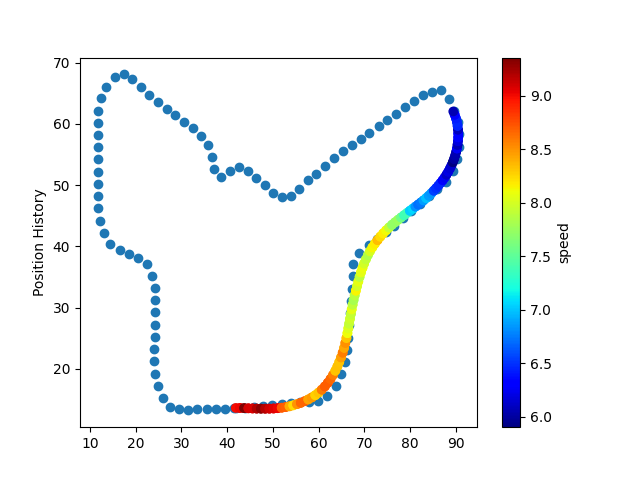
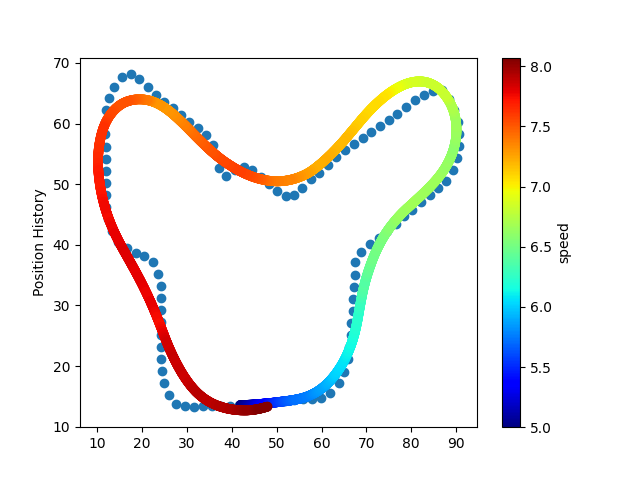
weighted average trajectory

diff --git a/car_controller.py b/car_controller.py
@@ -29,25 +29,25 @@ import math
 from scipy.integrate import odeint
 
 #Covariance Matrix for the input distribution
-INITIAL_COVARIANCE = [[0.0, 0], [0, 0.0]] 
+INITIAL_COVARIANCE = [[0.01, 0], [0, 0.1]] 
 
 #Covariance matrix for every next-step in the trajectory prediction
-STEP_COVARIANCE = [[0.05,0],[0,2]]
+STEP_COVARIANCE = [[0.1,0],[0,0]]
 NUMBER_OF_STEPS_PER_TRAJECTORY = 30
 
 # Must be between 0 and 1 and defines how close to a random walk the trajectories are
 # 0: The trajectories are calculated by a completely random control with mean = 0 and variance = step_covariance0 
 # 1: The trajectories are a random walk with mean = last control and variance = step_covariance
-RANDOM_WALK = 0
+RANDOM_WALK = 0.0
 
 #Number of trajectories that are calculated for every step
-NUMBER_OF_TRAJECTORIES = 1000
+NUMBER_OF_TRAJECTORIES = 100
 
-#With of the race track (ToDo)
+#With of the race track (ToDo) 
 DIST_TOLLERANCE = 4 
-
+INVERSE_TEMP = 10
 DRAW_CHOSEN_SEQUENCE = True
-DRAW_TRAJECTORIES = False
+DRAW_TRAJECTORIES = True
 
 def column(matrix, i):
         return [row[i] for row in matrix]
@@ -126,6 +126,7 @@ class CarController:
         simulated_trajectory = []
         for control_input in control_inputs:
             simulated_state = self.simulate_step(simulated_state, control_input)
+
             simulated_trajectory.append(simulated_state)
         return simulated_trajectory
 
@@ -138,15 +139,15 @@ class CarController:
     '''
     def simulate_trajectory_distribution(self, control_inputs_distrubution):
         self.simulated_history = []
-        # start = time.time()
+        start = time.time()
         result = []
-        with Pool(5) as p:
+        with Pool(8) as p:
             result = p.map(self.simulate_trajectory, 
             control_inputs_distrubution) 
         self.simulated_history = result
-        # end = time.time()
-        # print("TIME FOR 50 Trajectories")
-        # print(end - start)
+        end = time.time()
+        print("TIME FOR 50 Trajectories")
+        print(end - start)
 
         return result
 
@@ -174,7 +175,7 @@ class CarController:
                 next_control_input[0] = step_steering
                 next_control_input[1] = step_acceleration
 
-        return control_input_sequences
+        return np.array(control_input_sequences)
 
 
     '''
@@ -198,8 +199,8 @@ class CarController:
         progress_cost = 0
 
         distance_cost_weight = 1
-        speed_cost_weight = 400
-        progress_cost_weight =500
+        speed_cost_weight = 700
+        progress_cost_weight =700
 
         number_of_critical_states = 10
 
@@ -243,9 +244,9 @@ class CarController:
         self.last_control_input[0] = min(self.last_control_input[0], 1)
         self.last_control_input[1] = min(self.last_control_input[1], 0.5)
 
-        input_samples = self.sample_control_inputs(self.last_control_input)
+        control_sequences = self.sample_control_inputs(self.last_control_input)
         # input_samples = u_dist #those are the handcrafted inputs
-        simulated_history = self.simulate_trajectory_distribution( input_samples )
+        simulated_history = self.simulate_trajectory_distribution( control_sequences )
 
         trajectory_index = 0    
         lowest_cost = 100000
@@ -260,31 +261,20 @@ class CarController:
             if cost < lowest_cost:
                 best_index = trajectory_index
                 lowest_cost = cost
-            inverse_temp = 10
-            weight =  math.exp((-1/inverse_temp) * cost)
+            
+            weight =  math.exp((-1/INVERSE_TEMP) * cost)
             # print("Weight", weight)
             weights[trajectory_index] = weight
             trajectory_index += 1
 
-        best_input = input_samples[best_index]
-        # print("Best input", best_input)
-        return best_input
-        inputs = np.array(column(input_samples,0))
-
+        best_conrol_sequence = control_sequences[best_index]
 
         #Finding weighted avg input
-        u_sum = np.zeros(2)
-        total_weight = 0
-        for i in range (len(weights)):
-            total_weight += weights[i]
-            u_sum = np.add(u_sum, weights[i] * inputs[i])
-      
-
-        weighted_avg_input = u_sum/total_weight
-        next_control_input = weighted_avg_input
+        next_control_sequence = np.average(control_sequences,axis=0, weights=weights )
 
 
-        return next_control_input
+        return next_control_sequence
+        # return best_conrol_sequence
 
     """
     draws the simulated history (position and speed) of the car into a plot for a trajectory distribution resp. the history of all trajectory distributions

diff --git a/plot.py b/plot.py
@@ -1,0 +1,43 @@
+from matplotlib import cm
+import matplotlib.pyplot as plt
+import numpy as np
+import shapely.geometry as geom
+import math
+from numpy import genfromtxt
+
+
+control_history = genfromtxt('control_history.csv', delimiter=',')
+print(control_history.shape)
+
+fig, axs = plt.subplots(2)
+fig.suptitle('Control History')
+axs[0].title.set_text('Steering')
+axs[0].plot(control_history[:,0])
+axs[1].title.set_text('Thrust')
+axs[1].plot(control_history[:,1])
+
+plt.savefig("control_histry.png")
+plt.clf()
+
+state_history = genfromtxt('car_state_history.csv', delimiter=',')
+print(state_history.shape)
+
+fig, axs = plt.subplots(7)
+fig.suptitle('Control History')
+axs[0].title.set_text('x')
+axs[0].plot(state_history[:,0])
+axs[1].title.set_text('y')
+axs[1].plot(state_history[:,1])
+axs[2].title.set_text('Car angle')
+axs[2].plot(state_history[:,2])
+axs[3].title.set_text('Speed')
+axs[3].plot(state_history[:,3])
+axs[4].title.set_text('Steering angle')
+axs[4].plot(state_history[:,4])
+axs[5].title.set_text('Steering rate')
+axs[5].plot(state_history[:,5])
+axs[6].title.set_text('Slip angle')
+axs[6].plot(state_history[:,6])
+
+
+plt.savefig("car_state_histry.png")

diff --git a/car.py b/car.py
@@ -31,7 +31,7 @@ class Car:
 
         self.parameters = parameters_vehicle2()
         # self.state = init_ks([0, 0, 0, 20, 0])
-        self.state = init_st([initial_position[0], initial_position[1], 0, 9, 0, 0,0])
+        self.state = init_st([initial_position[0], initial_position[1], 0, 5, 0, 0,0])
         # self.state = init_std([initial_position[0], initial_position[1], 0, 7, 0, 0,0], p= self.parameters)
         # self.state = init_mb([419, 136, 0, 5, 0, 0,0,0, 0,0,0, 0,0,0, 0,0,0, 0,0,0, 0,0,0, 0,0,0, 0,0,0, 0,0,0, 0,0,0, 0,0], self.parameters)
         self.time = 0 #TODO:

diff --git a/multi_step_mpc.py b/multi_step_mpc.py
@@ -15,7 +15,7 @@ last_control_input = [0,0]
 
 
 
-for i in range(150):
+for i in range(200):
 
     next_control_sequence = car_controller.control_step()
     chosen_trajectory = car_controller.simulate_trajectory(next_control_sequence)
